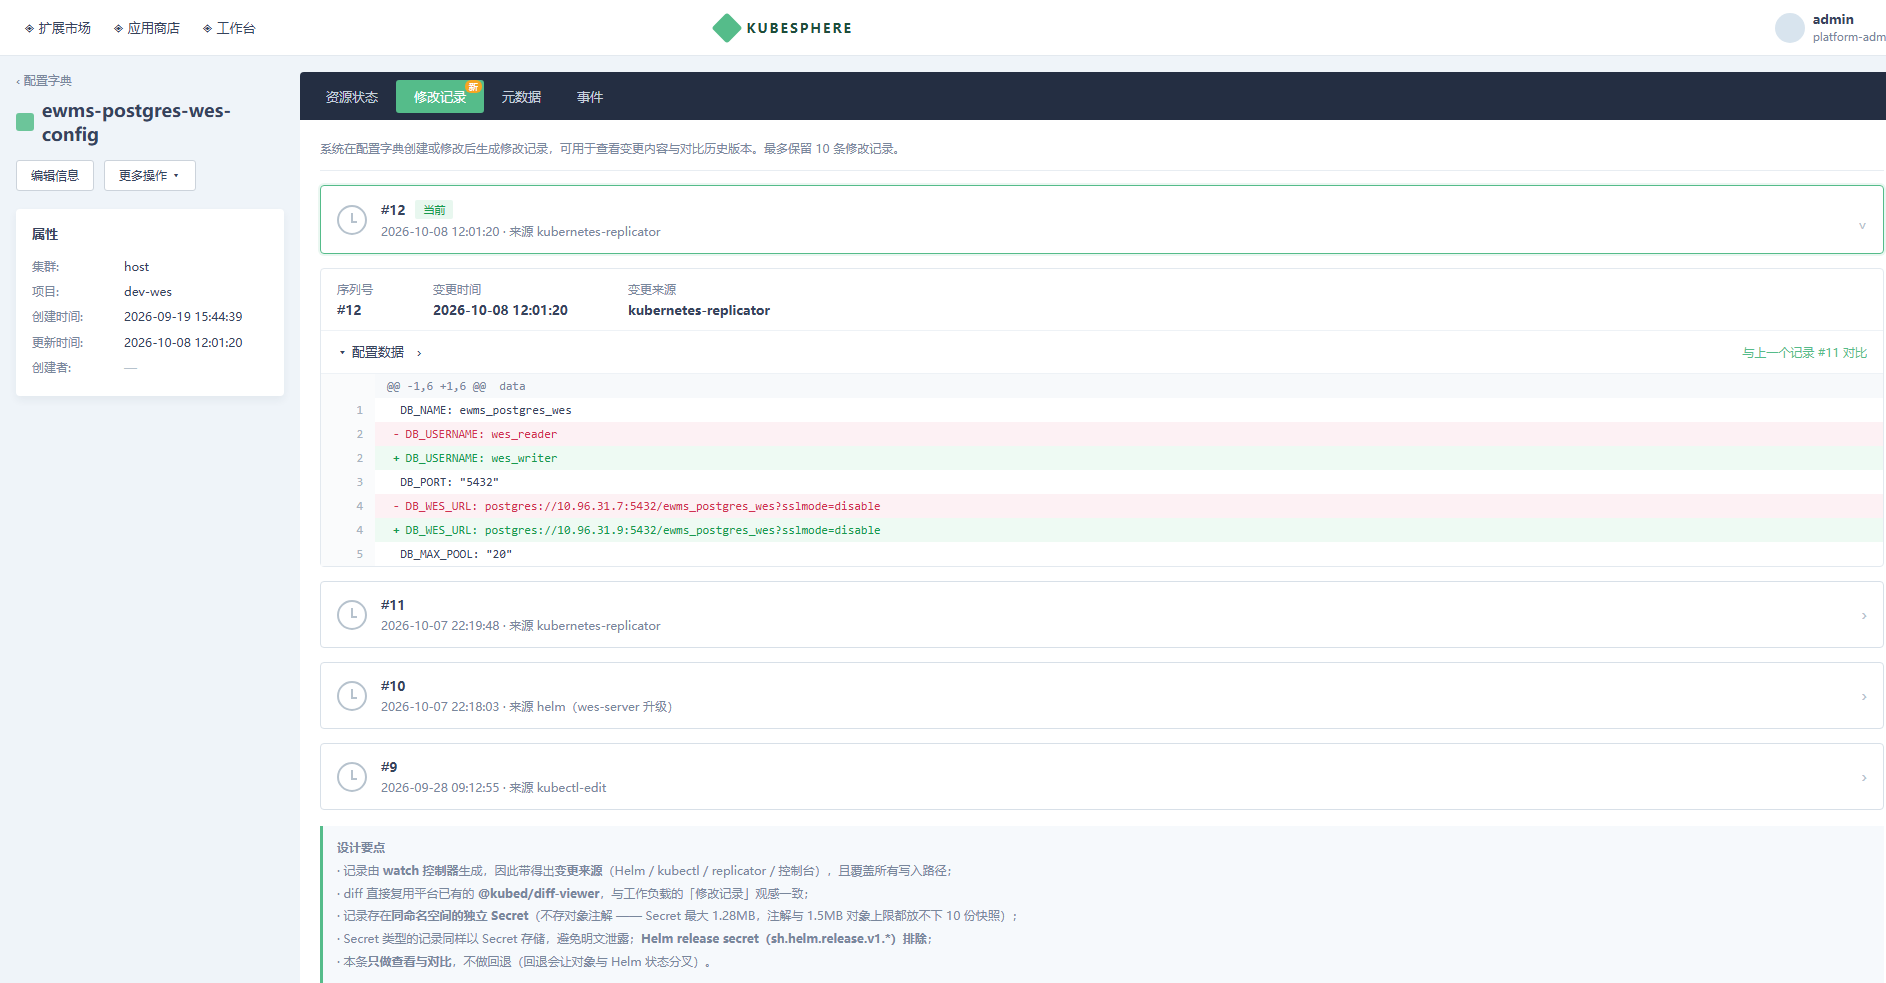
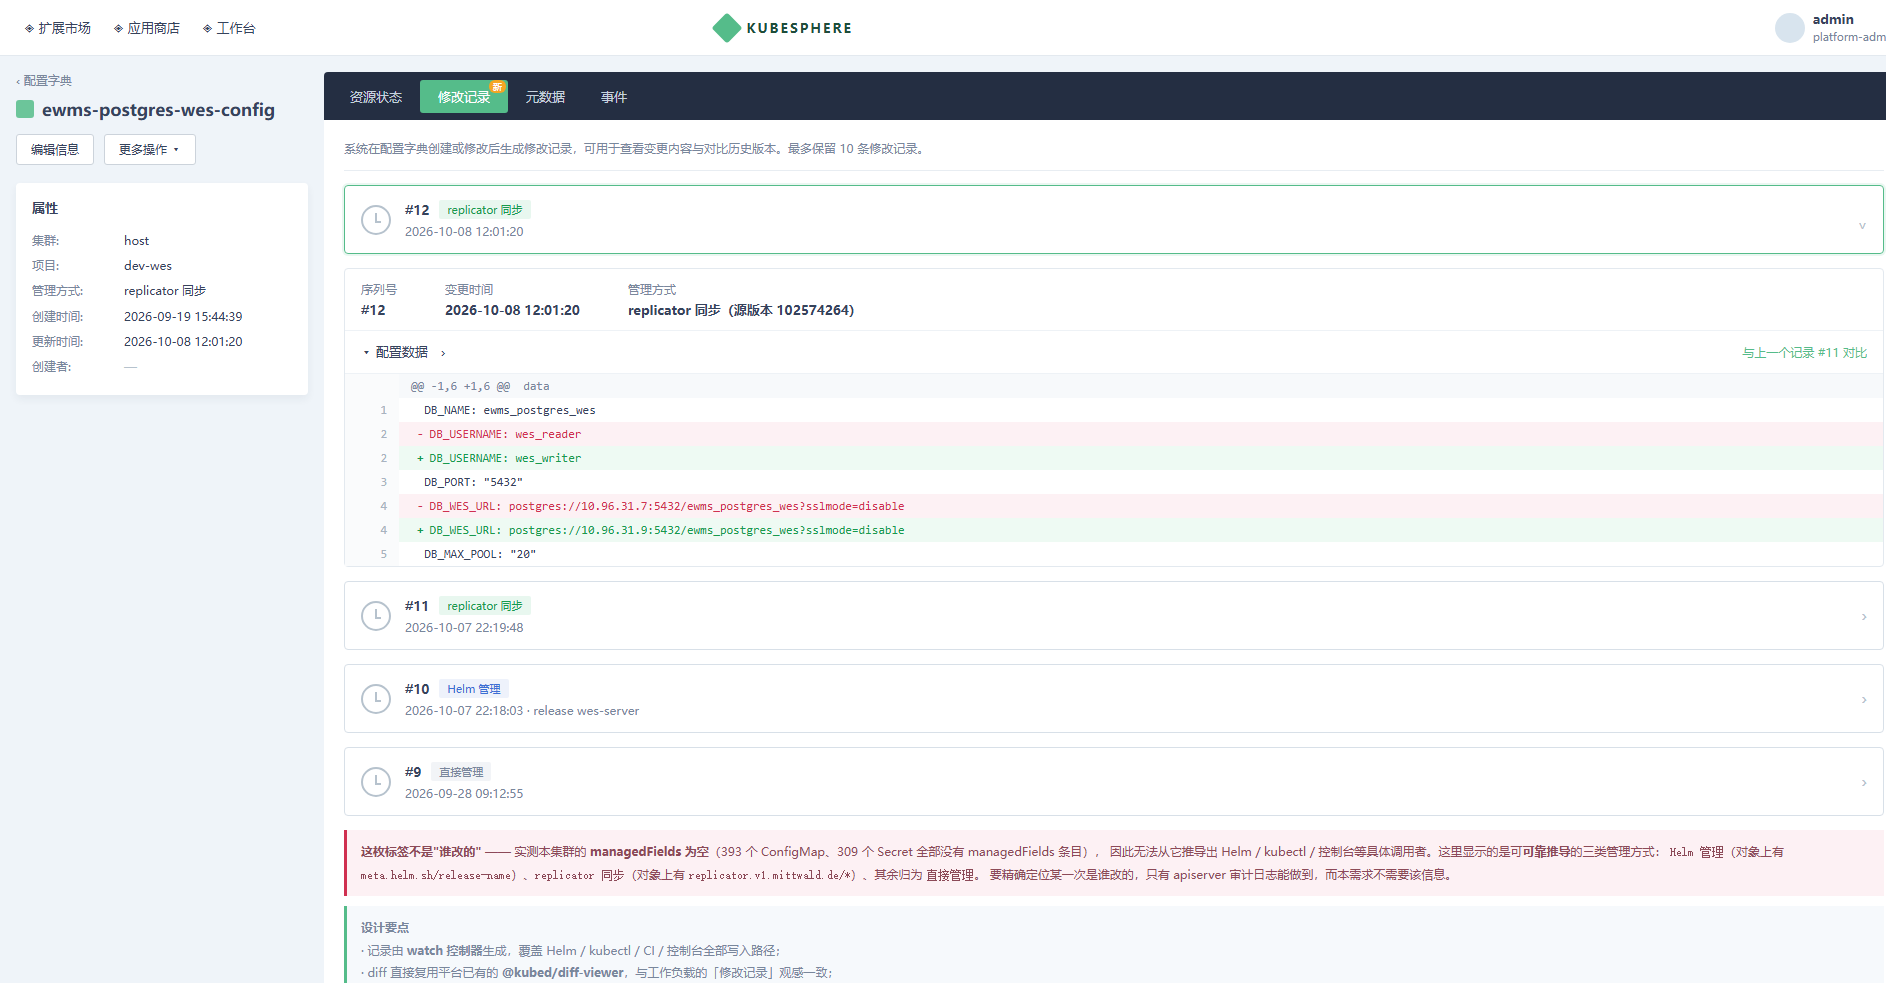
design: correct the change-source field ? it is not obtainable in this cluster
The mockup and the design doc claimed a "change source" (Helm / kubectl / replicator / console).
That was an over-claim. Verified on the cluster: metadata.managedFields is empty everywhere --
393 ConfigMaps and 309 Secrets, zero managedFields entries (k3s behaviour) -- so the caller
cannot be derived from it at all.

What is reliably derivable from annotations is a "managed by" classification, and that is what
the record now stores:

  meta.helm.sh/release-name present          -> Helm managed (with the release name)
  replicator.v1.mittwald.de/* present        -> replicator synced (with the source version)
  otherwise                                  -> directly managed

The field is renamed from source to managedBy (+ managedByRef) and the design doc states
explicitly that it does not claim to know who made a particular change; pinpointing that would
require apiserver audit logs, which this requirement does not need.

Also recorded: correlating object content against a Helm release secret's manifest would let us
narrow "Helm managed" down to a specific release revision. Noted as a possible later enhancement,
not in scope here.

Mockup regenerated accordingly.

diff --git a/docs/designs/2026-10-08-config-history-design.md b/docs/designs/2026-10-08-config-history-design.md
@@ -19,7 +19,13 @@
    → **把 10 份快照存进对象自身的注解不可行**，必须存到独立对象。
 4. 控制器骨架齐备：`pkg/controller/` 下已有约 40 个 controller（含 `secret`），统一以
    `SetupWithManager(mgr *kscontroller.Manager)` 注册，新增一个 watch 型 controller 是既有路径。
-5. 关键取舍依据：**记录必须由 watch 产生，而不是在写入时打标**。因为本集群的变更几乎全部走
+5. **变更来源不可得**：唯一可能承载调用者身份的 `metadata.managedFields` 在本集群**为空** ——
+   实测 393 个 ConfigMap 与 309 个 Secret，无一存在 managedFields 条目（k3s 行为）。因此任何
+   "Helm / kubectl / 控制台"式的来源标注都不可实现。可可靠推导的只有下面三类"管理方式"：
+   对象上有 `meta.helm.sh/release-name` → Helm 管理；有 `replicator.v1.mittwald.de/*` → replicator
+   同步；其余 → 直接管理。要精确定位某一次是谁改的，只有 apiserver 审计日志能做到，而本需求
+   明确不需要该信息。
+6. 关键取舍依据：**记录必须由 watch 产生，而不是在写入时打标**。因为本集群的变更几乎全部走
    Helm / kubectl / CI，绕过控制台 API；watch 监听的是 API server 的变更通知，因此覆盖所有写入
    路径。这也是本条需求能成立、而"最后更新人"那类写入时打标方案不成立的根本原因。
 
@@ -35,8 +41,10 @@
 - **必须忽略自己写记录引起的变更**，否则自触发死循环 —— 这是本实现的首要风险点。
 - 排除 Helm release secret（`sh.helm.release.v1.*`）：它们是 Helm 的内部状态，体积最大且每次
   Helm 操作都变，记录它们既无意义又会迅速撑大存储。
-- 记录"来源"可从对象自身的 `managedFields` / 已知注解推断（helm / kubectl / replicator / 控制台），
-  仅作为参考信息展示，不作为审计依据（这不是需求目标）。
+- 记录"**管理方式**"从对象注解可靠推导，不使用 `managedFields`（见证据第 5 条，本集群它为空）：
+  有 `meta.helm.sh/release-name` → 记为「Helm 管理」并带上 release 名；有
+  `replicator.v1.mittwald.de/*` → 记为「replicator 同步」并带上源版本；其余记为「直接管理」。
+  该字段只描述"这个对象由谁在管"，**不声称知道某一次是谁改的**。
 
 ### 存储：同命名空间的独立 Secret
 
@@ -44,7 +52,7 @@
   Secret。**一律用 Secret**，避免把 Secret 内容以明文写进 ConfigMap。
 - 放在**源对象所在的命名空间**，从而自然沿用项目级 RBAC 边界。
 - 记录内容为 gzip + base64 的 JSON 数组，元素形如
-  `{revision, createdAt, source, size, data}`；并对单条记录设置体积上限（超限时只存摘要标记，
+  `{revision, createdAt, managedBy, managedByRef, size, data}`；并对单条记录设置体积上限（超限时只存摘要标记，
   不存内容），避免个别超大对象把存储撑爆。
 
 ### 前端：复用现有视图
@@ -58,6 +66,12 @@
 - **不做回退**。本集群大量配置对象由 Helm 管理，把历史快照写回去会让对象与 Helm 状态分叉，
   下次升级即被覆盖。回退需要单独评估。
 - 不做"谁改的"。该问题的结论已在 `docs/PLAN.md` 记录：写入时打标不覆盖真实变更路径。
+
+### 后续可选增强（不在本条范围）
+
+Helm 的 release secret（`sh.helm.release.v1.<release>.v<N>`）里存有该次发布的完整 manifest 与
+时间。把对象内容与各次 release 的 manifest 做比对，可以判定"这次变更对应哪一次 Helm 发布"，
+从而把「Helm 管理」细化为「Helm release wes-server v12」。这需要额外的比对逻辑，本轮不做。
 
 ## 风险
 
